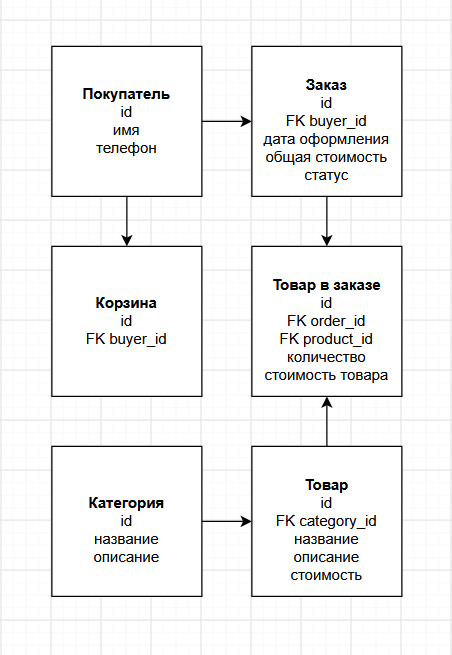
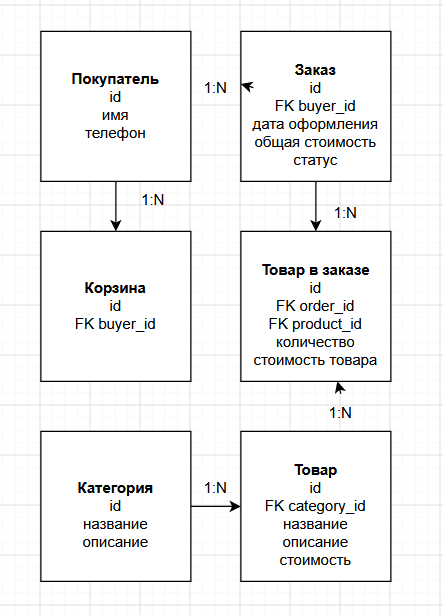
Добавлена полная лабораторная работа

diff --git a/report/analysis.md b/report/analysis.md
@@ -1,0 +1,252 @@
+# Анализ и моделирование данных предметной области
+
+## 1. Описание предметной области
+
+**Предметная область:** интернет-магазин.
+
+Интернет-магазин занимается электронной торговлей товарами через интернет.
+
+Основные процессы:
+- ведение каталога товаров;
+- работа с категориями товаров;
+- формирование корзины покупателя;
+- оформление заказов;
+- обработка заказов;
+- хранение информации о товарах;
+- хранение информации о заказах клиентов.
+
+Пользователи системы:
+- покупатели интернет-магазина;
+- сотрудники интернет-магазина.
+
+Основные задачи информационной системы:
+- хранение информации о товарах;
+- хранение информации о категориях товаров;
+- учет товаров в каталоге;
+- формирование и хранение корзин покупателей;
+- учет оформленных заказов;
+- обработка заказов покупателей;
+- просмотр информации о заказах.
+
+## 2. Объекты данных
+
+
+В предметной области выделены следующие основные объекты данных.
+
+###Покупатель
+
+Покупатель интернет-магазина, который просматривает каталог товаров и оформляет заказы.
+
+Необходимо хранить:
+- идентификатор покупателя;
+- имя;
+- номер телефона.
+
+###Товар
+
+Товар, представленный в каталоге интернет-магазина.
+
+Необходимо хранить:
+- идентификатор товара;
+- идентификатор категории;
+- название;
+- описание;
+- стоимость.
+
+###Категория
+
+Категория, к которой относятся товары интернет-магазина.
+
+Необходимо хранить:
+- идентификатор категории;
+- название;
+- описание.
+
+###Корзина
+
+Корзина покупателя, в которой хранятся выбранные товары перед оформлением заказа.
+
+Необходимо хранить:
+- идентификатор корзины;
+- идентификатор покупателя.
+
+###Заказ
+
+Информация о заказе, оформленном покупателем в интернет-магазине.
+
+Необходимо хранить:
+- идентификатор заказа;
+- идентификатор покупателя;
+- дата оформления;
+- общая стоимость;
+- статус заказа.
+
+###Товар в заказе
+
+Информация о товаре, включённом в определённый заказ.
+
+Необходимо хранить:
+- идентификатор товара в заказе;
+- идентификатор заказа;
+- идентификатор товара;
+- количество;
+- стоимость товара на момент оформления заказа.
+
+
+## 3. Атрибуты объектов
+
+Для каждого объекта были определены основные атрибуты и предполагаемые типы данных.
+
+### Покупатель
+
+| Атрибут | Тип данных | Описание |
+|---|---|---|
+| id | Число | Уникальный идентификатор покупателя |
+| имя | Строка | Имя покупателя |
+| телефон | Строка | Номер телефона покупателя |
+
+### Товар
+
+| Атрибут | Тип данных | Описание |
+|---|---|---|
+| id | Число | Уникальный идентификатор товара |
+| category_id | Число | Идентификатор категории товара |
+| название | Строка | Название товара |
+| описание | Строка | Описание товара |
+| стоимость | Число | Стоимость товара |
+
+### Категория
+
+| Атрибут | Тип данных | Описание |
+|---|---|---|
+| id | Число | Уникальный идентификатор категории |
+| название | Строка | Название категории |
+| описание | Строка | Описание категории |
+
+### Корзина
+
+| Атрибут | Тип данных | Описание |
+|---|---|---|
+| id | Число | Уникальный идентификатор корзины |
+| buyer_id | Число | Идентификатор покупателя, которому принадлежит корзина |
+
+### Заказ
+
+| Атрибут | Тип данных | Описание |
+|---|---|---|
+| id | Число | Уникальный идентификатор заказа |
+| buyer_id | Число | Идентификатор покупателя, оформившего заказ |
+| дата оформления | Дата | Дата оформления заказа |
+| общая стоимость | Число | Общая стоимость заказа |
+| статус | Строка | Текущий статус заказа |
+
+### Товар в заказе
+
+| Атрибут | Тип данных | Описание |
+|---|---|---|
+| id | Число | Уникальный идентификатор записи о товаре в заказе |
+| order_id | Число | Идентификатор заказа |
+| product_id | Число | Идентификатор товара |
+| количество | Число | Количество единиц товара в заказе |
+| стоимость товара | Число | Стоимость товара на момент оформления заказа |
+
+## 4. Классификация данных
+
+Выделенные данные можно классифицировать по их назначению и типу.
+
+| Категория данных | Примеры | Назначение |
+|---|---|---|
+| Текстовые | имя покупателя, телефон, название товара, описание товара, название категории, статус заказа | Хранение текстовой информации об объектах |
+| Числовые | идентификаторы, стоимость товара, количество | Хранение числовых значений |
+| Даты и время | дата оформления заказа | Хранение информации о датах событий |
+| Логические | отсутствуют в текущей модели | В текущей модели данные типа «да/нет» не используются |
+| Справочные | категории товаров, каталог товаров | Хранение перечня доступных товаров и категорий |
+| Вычисляемые | общая стоимость заказа | Значение может быть рассчитано на основе стоимости и количества товаров в заказе |
+
+## 5. Связи между объектами
+
+### Покупатель - Корзина
+
+Тип связи: один ко многим (1:N).
+
+Один покупатель может иметь несколько корзин. Каждая корзина принадлежит одному покупателю.
+
+### Категория - Товар
+
+Тип связи: один ко многим (1:N).
+
+Одна категория может содержать несколько товаров. Каждый товар относится к одной категории.
+
+### Покупатель - Заказ
+
+Тип связи: один ко многим (1:N).
+
+Один покупатель может оформить несколько заказов. Каждый заказ относится к одному покупателю.
+
+### Заказ - Товар в заказе
+
+Тип связи: один ко многим (1:N).
+
+Один заказ может содержать несколько товаров. Каждая запись о товаре относится к одному заказу.
+
+### Товар - Товар в заказе
+
+Тип связи: один ко многим (1:N).
+
+Один товар может входить в несколько заказов. Каждая запись о товаре в заказе относится к одному конкретному товару.
+
+## 6. Концептуальная модель данных
+
+На схеме отражены следующие связи:
+
+- Покупатель 1:N Корзина;
+- Категория 1:N Товар;
+- Покупатель 1:N Заказ;
+- Заказ 1:N Товар в заказе;
+- Товар 1:N Товар в заказе.
+
+Связь многие ко многим между заказом и товаром реализована с помощью промежуточной таблицы «Товар в заказе».
+
+### Схема концептуальной модели
+
+![Концептуальная модель данных](images/conceptual_model.png)
+
+На схеме отражены следующие связи:
+
+- Покупатель 1:N Корзина;
+- Категория 1:N Товар;
+- Покупатель 1:N Заказ;
+- Заказ 1:N Товар в заказе;
+- Товар 1:N Товар в заказе.
+
+## 7. Оценка качества исходных данных
+
+После построения концептуальной модели была выполнена оценка полноты и качества данных.
+
+### Достаточно ли объектов выделено?
+
+Да. Выделенные объекты описывают основные данные, необходимые для учета покупателей, товаров, категорий, корзин и заказов.
+
+### Отсутствуют ли важные сущности?
+
+Для рассматриваемой модели основных сущностей достаточно. При дальнейшем развитии системы могут быть добавлены платежи, доставка, отзывы покупателей и другие объекты.
+
+### Все ли необходимые атрибуты определены?
+
+Для построения концептуальной модели определены основные атрибуты каждого объекта. При реализации реальной информационной системы набор атрибутов может быть расширен.
+
+### Имеются ли дублирующиеся данные?
+
+Явного дублирования данных в модели нет. Информация о покупателях, товарах, категориях, корзинах и заказах хранится в отдельных объектах и связывается между собой.
+
+### Достаточно ли информации для дальнейшего проектирования информационной системы?
+
+Да. Выделены основные объекты, их атрибуты и связи. Полученная модель может использоваться как основа для дальнейшего проектирования базы данных.
+
+## Вывод
+
+В ходе лабораторной работы была проанализирована предметная область интернет-магазина. Были выделены основные объекты данных, определены их атрибуты и выполнена классификация данных.
+
+Между объектами были определены связи один ко многим и многие ко многим. Связь между заказом и товаром реализована с помощью промежуточного объекта «Товар в заказе». На основе проведенного анализа была построена концептуальная модель данных.
+
+Полученная модель описывает основные данные этого интернет-магазина и может использоваться как основа для дальнейшего проектирования информационной системы.

diff --git a/README.md b/README.md
@@ -1,0 +1,15 @@
+# Лабораторная работа №3
+
+Анализ и моделирование данных предметной области
+
+**Цель работы:**
+
+Изучить принципы анализа предметной области и моделирования данных.
+
+**Предметная область:**
+
+Интернет-магазин
+
+**Краткое описание:**
+
+В ходе работы были выделены основные объекты предметной области интернет-магазина, определены их атрибуты и связи, выполнена классификация данных и построена концептуальная модель.
